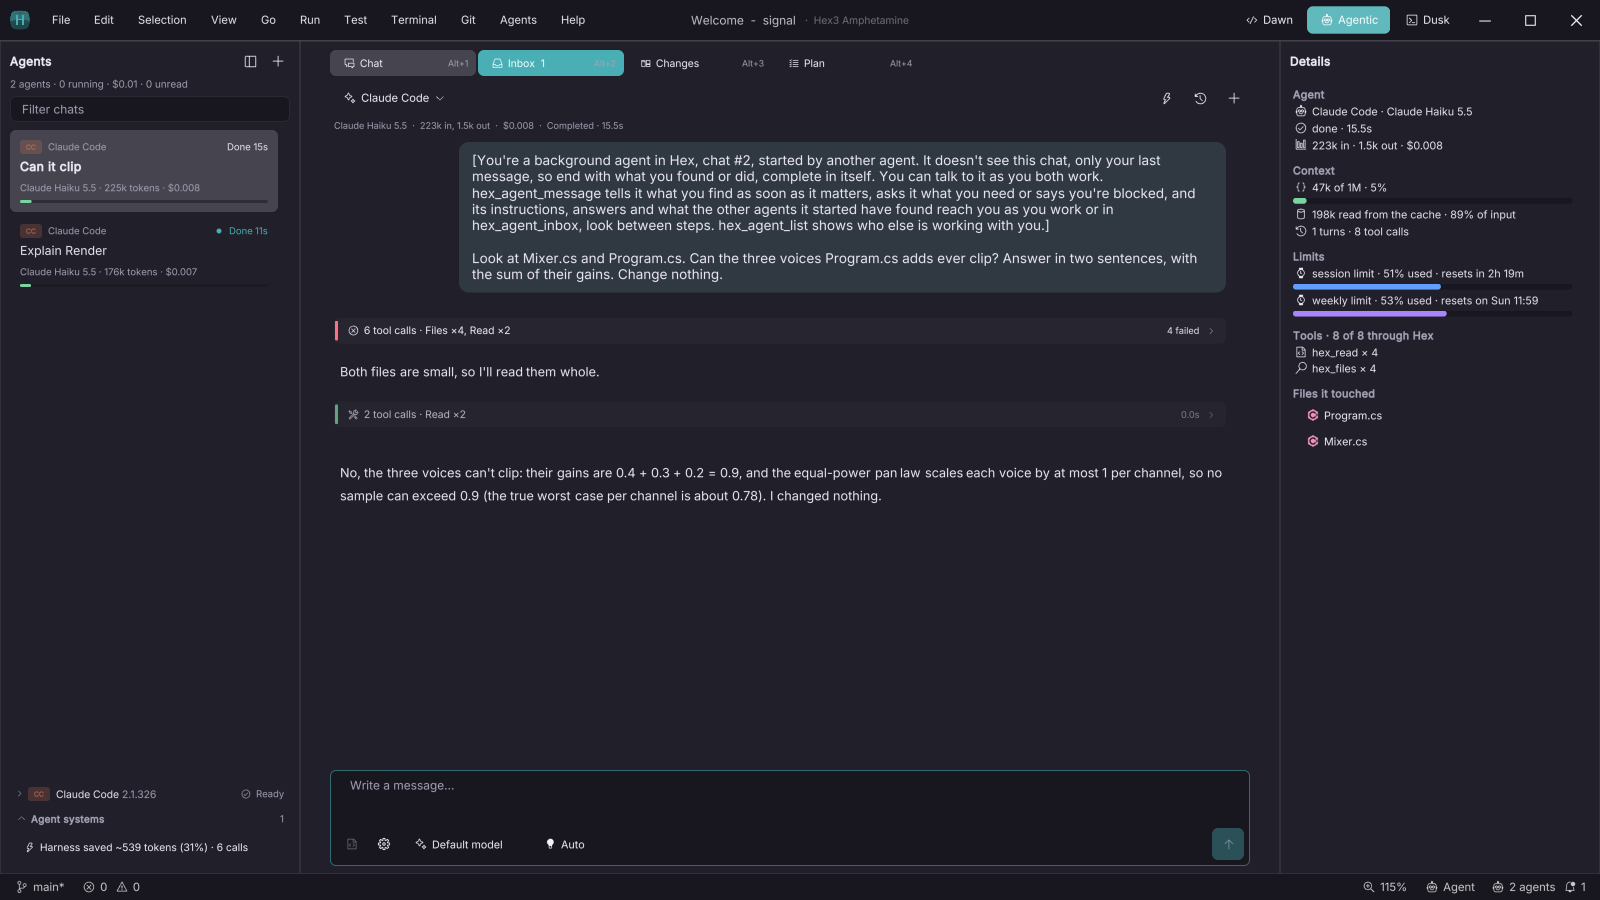
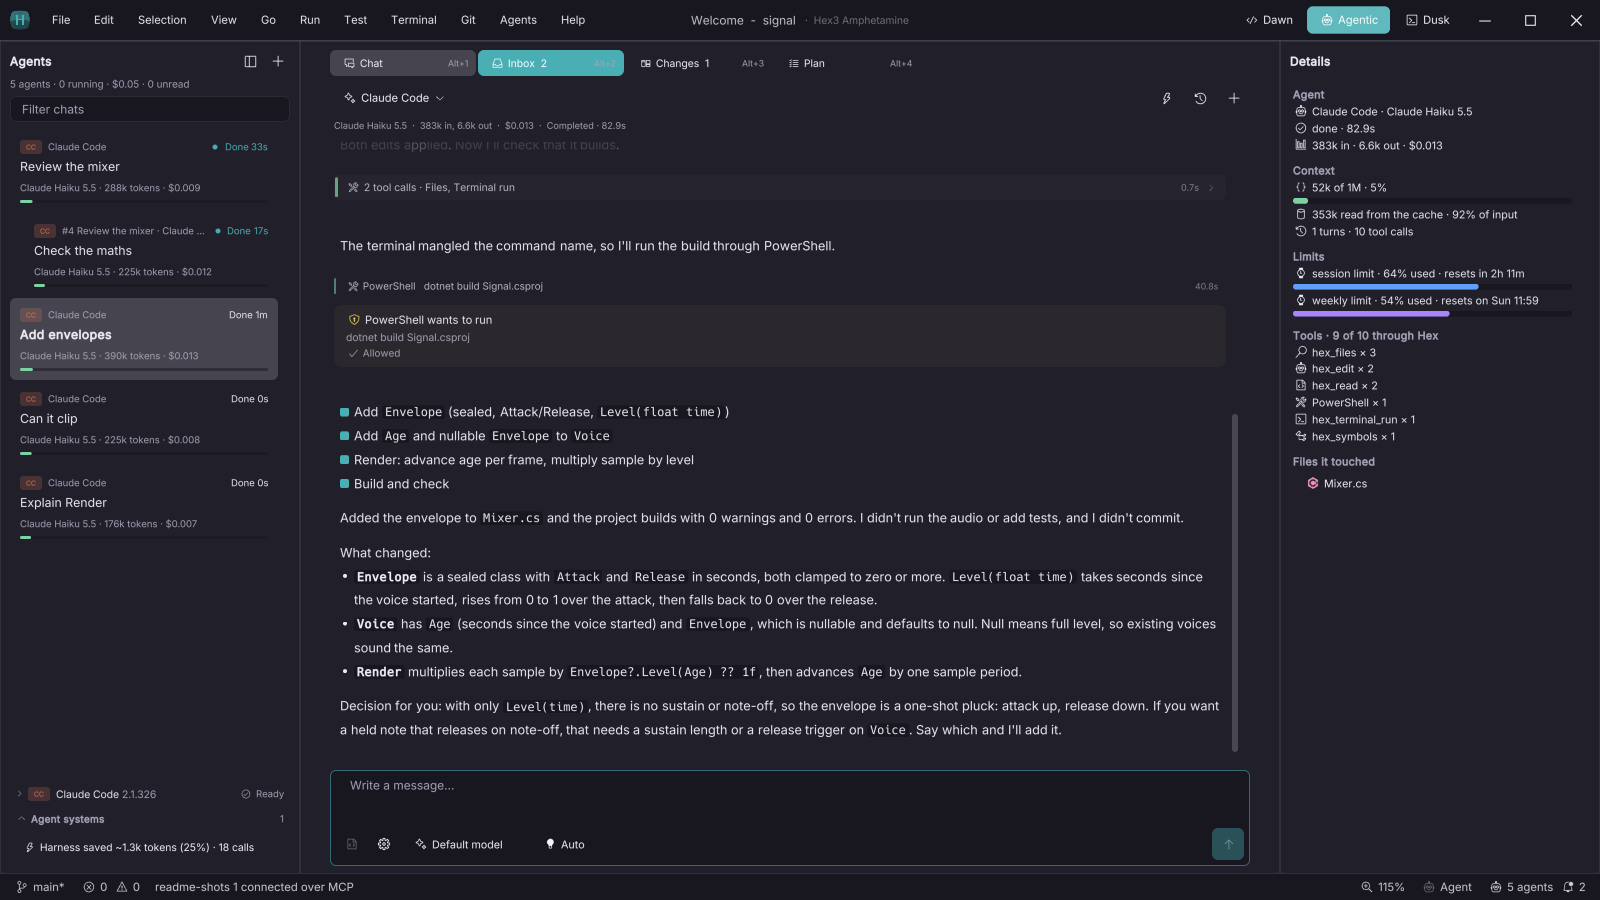
The README and the page show Agentic's fleet, chat, Details, Inbox and the review of a turn's changes, from real chats

diff --git a/site/index.html b/site/index.html
@@ -210,14 +210,33 @@
         <h2>Bring your own agent. Or don't.</h2>
         <p>Hex doesn't sell you an AI subscription. <strong>Agentic</strong> runs your installed Claude Code, Codex or Antigravity CLI, with your own account. A fleet of chats side by side, each card saying its model, tokens, cost and how full its context is. Your provider's usage charges still belong to your provider.</p>
         <figure class="shot rise" style="margin: var(--gap) 0 0">
-          <img src="images/agentic-1600.webp" srcset="images/agentic-800.webp 800w, images/agentic-1600.webp 1600w" sizes="(min-width: 72rem) 68rem, 94vw" width="1600" height="900" loading="lazy" decoding="async" alt="Agentic: two Claude Code chats in a list on the left, one of them open in the middle with its question, tool calls and answer, and on the right its model, tokens, cost, context, limits, tools and the files it touched">
+          <img src="images/agentic-1600.webp" srcset="images/agentic-800.webp 800w, images/agentic-1600.webp 1600w" sizes="(min-width: 72rem) 68rem, 94vw" width="1600" height="900" loading="lazy" decoding="async" alt="Agentic: five Claude Code chats in a list on the left, one of them started by another, the open chat in the middle with its tool calls, an allowed request, a ticked to-do list and its answer, and on the right its model, tokens, cost, context, limits, tools and the files it touched">
         </figure>
-        <p class="note">Two small Claude Code chats asked about the demo project. The fleet on the left, the chat in the middle, what it cost and touched on the right.</p>
+        <p class="note">Five small Claude Code chats at work on the demo project. This one was asked to add envelopes to the mixer, asked leave to build, ticked off its list and said what it left undecided.</p>
+
+        <div class="gallery">
+          <figure class="rise">
+            <a href="images/agentic-inbox-1600.webp"><img src="images/agentic-inbox-800.webp" width="800" height="450" loading="lazy" decoding="async" alt="The Inbox: a card where one agent asks leave to run dotnet build, with Allow and Deny buttons, and two cards for chats that finished"></a>
+            <figcaption><b>The Inbox.</b> Everything any agent is waiting on you for, in one place. <kbd>Ctrl+Alt+Y</kbd> allows, <kbd>Ctrl+Alt+N</kbd> denies.</figcaption>
+          </figure>
+          <figure class="rise">
+            <a href="images/agentic-review-1600.webp"><img src="images/agentic-review-800.webp" width="800" height="450" loading="lazy" decoding="async" alt="Changes: one turn's edit to Mixer.cs opened as three hunks, each with Keep and Undo buttons, and Restore the turn above them"></a>
+            <figcaption><b>Changes you can take back.</b> Every turn is checkpointed. Keep or undo each hunk, or restore the whole turn.</figcaption>
+          </figure>
+        </div>
 
         <ul class="features">
           <li class="rise">
-            <h3>Changes you can take back</h3>
-            <p>Every turn of an agent is checkpointed, so what it wrote can be reviewed hunk by hunk, kept or undone one at a time, or restored whole.</p>
+            <h3>The fleet</h3>
+            <p>Every chat is a card: its agent system, model, tokens, cost, what it's doing right now and a thin bar of how full its context is.</p>
+          </li>
+          <li class="rise">
+            <h3>Agents that start agents</h3>
+            <p>One chat can start others, of any system and model, and they sit under it a step in. It waits for them and reports for all.</p>
+          </li>
+          <li class="rise">
+            <h3>Details, down to the cent</h3>
+            <p>Turns, tokens in and out, cost, how much came from the cache, your plan's limits, which tools went through Hex and the files it touched.</p>
           </li>
           <li class="rise">
             <h3>One method, not the whole bloody file</h3>

diff --git a/README.md b/README.md
@@ -121,18 +121,31 @@ You can also make Dusk your default terminal where the platform supports it; [th
 
 ## Bring your own agent. Or don't.
 
-![Hex Agentic with two Claude Code chats in the fleet, one open with its tool calls and answer, and its tokens, cost, context and files in Details](images/readme/agentic.png)
+![Hex Agentic with five Claude Code chats in the fleet, one of them started by another, the open chat's tool calls, allowed request, to-do list and answer in the middle, and its tokens, cost, context, tools and files in Details](images/readme/agentic.png)
 
-*Agentic, the agents' face, in its teal. Two small Claude Code chats asked about the demo project; the fleet on the
-left, the chat in the middle, what it cost and touched on the right.*
+*Agentic, the agents' face, in its teal. Five small Claude Code chats at work on the demo project. This one was asked
+to add envelopes to the mixer, asked leave to build, ticked off its list and said what it left undecided.*
 
 Hex doesn't sell you an AI subscription. **Agentic** is a face of its own beside Dawn and Dusk that runs your
-installed Claude Code, Codex or Antigravity CLI, with your own account. A fleet of chats side by side, each card
-saying its model, tokens, cost and how full its context is. An Inbox for everything an agent is waiting on you for.
-Agents can start and steer other agents. Your provider's usage charges still belong to your provider.
+installed Claude Code, Codex or Antigravity CLI, with your own account. Your provider's usage charges still belong to
+your provider. What's in it:
 
-**Changes you can take back.** Every turn of an agent is checkpointed, so what it wrote can be reviewed hunk by
-hunk, kept or undone one at a time, or restored whole.
+- **The fleet.** Every chat on the left as a card: its agent system, model, tokens, cost, what it's doing right now
+  and a thin bar of how full its context is. A filter over them, and a panel under them of each system's version,
+  session totals and what the harness saved it.
+- **Agents that start agents.** One chat can start others, of any system and model, and they sit under it a step in.
+  *Check the maths* above was started by *Review the mixer*, which waited for it and reported for both.
+- **The chat.** Tool calls folded into quiet groups you can open, requests with what was answered, the agent's
+  to-do list ticked off as it goes. A box with `@` for files and declarations, `/` for the system's commands, pasted
+  pictures, and pickers for the model and how hard it thinks.
+- **Details.** On the right, the chat's turns, tokens in and out, cost, how much came from the cache, your plan's
+  limits, which tools it used and how many went through Hex, and the files it touched.
+- **Four tabs.** Chat, Inbox, Changes and Plan, on **Alt+1** to **Alt+4**. Plan is the agent's to-do list by itself.
+
+| | |
+| --- | --- |
+| [![The Inbox: a request from one agent to run dotnet build with Allow and Deny, and two cards for chats that finished](images/readme/agentic-inbox.png)](images/readme/agentic-inbox.png) | [![Changes: one turn's edit to Mixer.cs opened hunk by hunk, each with Keep and Undo, and Restore the turn above](images/readme/agentic-review.png)](images/readme/agentic-review.png) |
+| **The Inbox.** Everything any agent is waiting on you for in one place: leave to run something, a question, a chat that finished while you were elsewhere. **Ctrl+Alt+Y** allows, **Ctrl+Alt+N** denies. | **Changes you can take back.** Every turn is checkpointed as it begins. Diff it, review it hunk by hunk keeping or undoing each, or restore the whole turn. |
 
 Agents can also connect over MCP. Hex exposes **71 tools**: repository maps, symbol search, references, focused code
 reads, screenshots, editor commands, the debugger, notebooks and terminals, so an agent can ask for one method instead

diff --git a/images/readme/README.md b/images/readme/README.md
@@ -22,7 +22,9 @@ calling `hex_screenshot`. That's why the status bar says Agent on the right. `te
 | `markdown.png` | `notes.md` in its preview |
 | `designer.png` | `Assets/hex/welcome.hor`, Hex's own welcome page, in the designer with its Open Folder button selected |
 | `settings.png` | Settings at Appearance, Profiles |
-| `agentic.png` | Agentic with two Claude Code chats on Claude Haiku 5.5, started with `hex_agent_spawn` and asked read-only questions about the demo. The Claude Code extension was copied beside Hex.exe first. The limits in Details are the account's own |
+| `agentic.png` | Agentic with five Claude Code chats on Claude Haiku 5.5, started with `hex_agent_spawn` (one of them by another chat). The open one was asked to add envelopes to `Mixer.cs` and did, the build it asked leave for allowed from the Inbox. The Claude Code extension was copied beside Hex.exe first. The limits in Details are the account's own. The first line of each prompt is what Hex tells an agent started by another |
+| `agentic-inbox.png` | The Inbox while that chat waited for leave to run `dotnet build`, with the cards of two chats that had finished |
+| `agentic-review.png` | Changes for that chat, Review pressed on its turn's `Mixer.cs` |
 | `light.png`, `graphite.png`, `glass.png` | The same file and layout after File, Preferences, Look: Solstice Day, Graphite and Fluid Glass |
 | `sunset.png` | The same in the Flat look with Dawn's theme set to Sunset |
 | `terminal.png` | Dusk, Solstice Dusk, PowerShell |
@@ -31,6 +33,9 @@ The project in the pictures is a small demonstration, a mixer of sines in two C#
 git repository of five commits. It builds and runs; it isn't a claim about anything else. Dusk runs a showcase script
 that prints the demo folder's listing and six real Hex commits, followed by ANSI colour swatches. Its prompt is
 shortened to `PS Signal>`. Screenshot settings were kept apart from the user's and from the benchmark's.
+
+csharp-ls can take up to a minute to come up on a project. No code picture was taken until it had, which is told by
+Roslyn's own hints arriving in the problems list and the status bar saying `C#, csharp-ls`.
 
 One thing was worked round. After the demo's files were changed on disk under an open tab, csharp-ls reported syntax
 errors the file didn't have until Run: Restart Language Server. `git.png` and `search.png` were taken after that.
